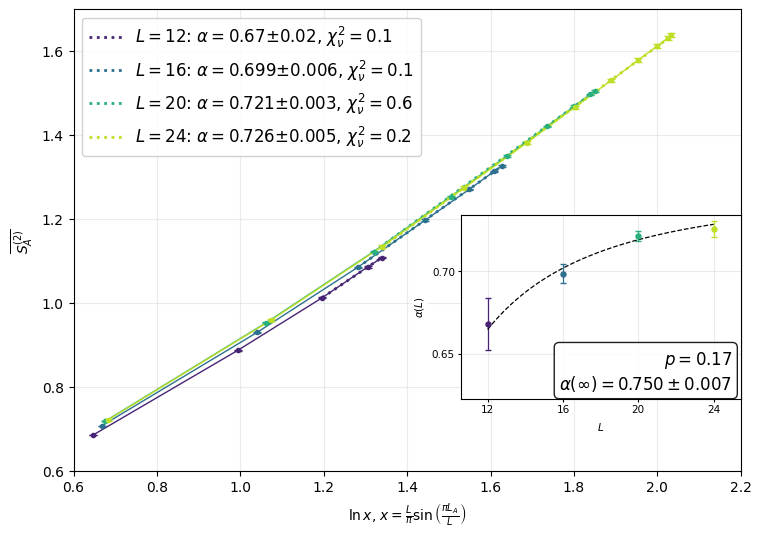
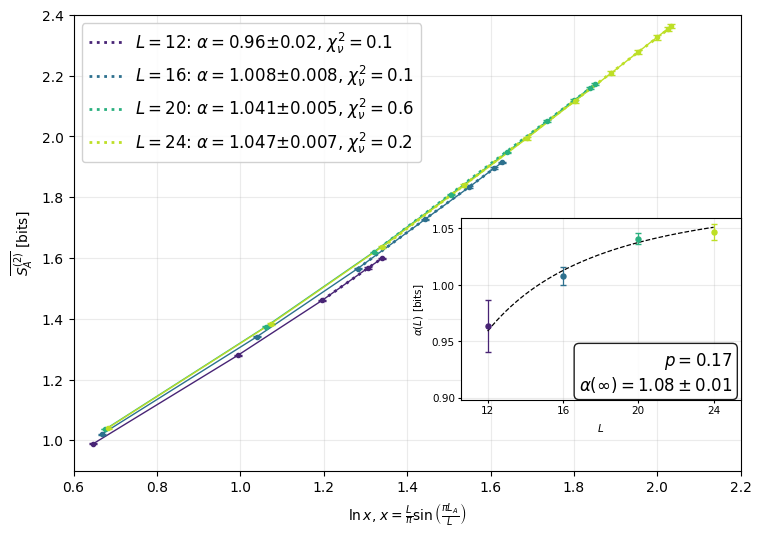
made all plots in [bits], added finite-size scaling \omega for p_c

diff --git a/python/data_analysis/probes_scans.py b/python/data_analysis/probes_scans.py
@@ -634,24 +634,56 @@ def _fit_probe_pc_metric(
     fixed_pc: float | None,
     fixed_nu: float | None,
     fixed_x: float | None,
+    correction_to_scaling: bool,
+    omega_bounds: tuple[float, float],
+    fixed_omega: float | None,
+    f1_order: int,
     interpolation_points: int,
     relative_error_floor: float,
     absolute_error_floor: float,
     seed: int,
 ) -> dict[str, Any]:
-    for name, value, bound in (
+    if correction_to_scaling:
+        if not 0.0 < omega_bounds[0] < omega_bounds[1]:
+            raise ValueError(
+                "omega_bounds must be strictly increasing and positive."
+            )
+        if len(curves) < 3:
+            raise ValueError(
+                "The correction-to-scaling fit requires at least three "
+                "system sizes."
+            )
+        if (
+            isinstance(f1_order, (bool, np.bool_))
+            or not isinstance(f1_order, (int, np.integer))
+            or f1_order < 0
+        ):
+            raise ValueError("f1_order must be a non-negative integer.")
+    elif fixed_omega is not None:
+        raise ValueError(
+            "fixed_omega requires correction_to_scaling=True."
+        )
+
+    parameter_specs = [
         ("fixed_pc", fixed_pc, pc_bounds),
         ("fixed_nu", fixed_nu, nu_bounds),
         ("fixed_x", fixed_x, x_bounds),
-    ):
+    ]
+    if correction_to_scaling:
+        parameter_specs.append(("fixed_omega", fixed_omega, omega_bounds))
+    for name, value, bound in parameter_specs:
         if value is not None and not bound[0] <= value <= bound[1]:
             raise ValueError(f"{name}={value} lies outside bounds {bound}.")
+
     names, bounds, fixed = [], [], {}
-    for name, value, bound in (
+    fit_specs = [
         ("pc", fixed_pc, pc_bounds),
         ("nu", fixed_nu, nu_bounds),
         ("x", fixed_x, x_bounds),
-    ):
+    ]
+    if correction_to_scaling:
+        fit_specs.append(("omega", fixed_omega, omega_bounds))
+    for name, value, bound in fit_specs:
         if value is None:
             names.append(name)
             bounds.append(bound)
@@ -661,9 +693,14 @@ def _fit_probe_pc_metric(
     def unpack(theta):
         values = dict(fixed)
         values.update({name: float(value) for name, value in zip(names, theta)})
-        return values["pc"], values["nu"], values["x"]
+        return (
+            values["pc"],
+            values["nu"],
+            values["x"],
+            values.get("omega"),
+        )
 
-    def transformed(curve, pc, nu, exponent):
+    def raw_transformed(curve, pc, nu, exponent):
         scale = float(curve["L"]) ** exponent
         x = (curve["p"] - pc) * float(curve["L"]) ** (1.0 / nu)
         order = np.argsort(x)
@@ -671,20 +708,106 @@ def _fit_probe_pc_metric(
             curve["dvalue"] * scale
         )[order]
 
+    def correction_model(pc, nu, exponent, omega, curve_set=curves):
+        """Profile out F1 while leaving the common F0 curve nonparametric."""
+        pair_samples = []
+        x_scale = 0.0
+        for i in range(len(curve_set)):
+            for j in range(i + 1, len(curve_set)):
+                xa, ya, dya = raw_transformed(curve_set[i], pc, nu, exponent)
+                xb, yb, dyb = raw_transformed(curve_set[j], pc, nu, exponent)
+                lo, hi = max(xa.min(), xb.min()), min(xa.max(), xb.max())
+                if hi <= lo:
+                    continue
+                grid = np.linspace(lo, hi, interpolation_points)
+                ya_grid = np.interp(grid, xa, ya)
+                yb_grid = np.interp(grid, xb, yb)
+                dya_grid = np.interp(grid, xa, dya)
+                dyb_grid = np.interp(grid, xb, dyb)
+                typical = max(
+                    np.nanmedian(np.abs(ya_grid)),
+                    np.nanmedian(np.abs(yb_grid)),
+                    absolute_error_floor,
+                )
+                floor = max(absolute_error_floor, relative_error_floor * typical)
+                sigma = np.sqrt(dya_grid**2 + dyb_grid**2 + floor**2)
+                irrelevant_difference = (
+                    float(curve_set[i]["L"]) ** (-omega)
+                    - float(curve_set[j]["L"]) ** (-omega)
+                )
+                pair_samples.append(
+                    (grid, ya_grid - yb_grid, sigma, irrelevant_difference)
+                )
+                x_scale = max(x_scale, float(np.max(np.abs(grid))))
+
+        if not pair_samples or not np.isfinite(x_scale):
+            return None
+        if x_scale == 0.0:
+            x_scale = 1.0
+        design_parts, value_parts, sigma_parts = [], [], []
+        for grid, difference, sigma, irrelevant_difference in pair_samples:
+            polynomial_x = grid / x_scale
+            design_parts.append(
+                irrelevant_difference
+                * np.vander(polynomial_x, N=f1_order + 1, increasing=True)
+            )
+            value_parts.append(difference)
+            sigma_parts.append(sigma)
+        design = np.vstack(design_parts)
+        value = np.concatenate(value_parts)
+        sigma = np.concatenate(sigma_parts)
+        if value.size <= design.shape[1]:
+            return None
+        try:
+            coefficients, _, rank, _ = np.linalg.lstsq(
+                design / sigma[:, None], value / sigma, rcond=None
+            )
+        except np.linalg.LinAlgError:
+            return None
+        if rank < design.shape[1] or not np.all(np.isfinite(coefficients)):
+            return None
+
+        offset = 0
+        pair_scores = []
+        for grid, _, pair_sigma, _ in pair_samples:
+            count = grid.size
+            pair_residual = (
+                value[offset:offset + count]
+                - design[offset:offset + count] @ coefficients
+            ) / pair_sigma
+            pair_scores.append(np.mean(pair_residual**2))
+            offset += count
+        return {
+            "score": float(np.mean(pair_scores)),
+            "x_scale": x_scale,
+            "f1_coefficients": coefficients,
+        }
+
     def objective(theta, curve_set=curves):
-        pc, nu, exponent = unpack(theta)
+        pc, nu, exponent, omega = unpack(theta)
+        omega_value = 0.0 if omega is None else omega
         if (
-            not np.isfinite(pc + nu + exponent)
+            not np.isfinite(pc + nu + exponent + omega_value)
             or not pc_bounds[0] <= pc <= pc_bounds[1]
             or not nu_bounds[0] <= nu <= nu_bounds[1]
             or not x_bounds[0] <= exponent <= x_bounds[1]
+            or (
+                correction_to_scaling
+                and not omega_bounds[0] <= omega_value <= omega_bounds[1]
+            )
         ):
             return np.inf
+        if correction_to_scaling:
+            model = correction_model(
+                pc, nu, exponent, omega_value, curve_set=curve_set
+            )
+            return np.inf if model is None else model["score"]
+
         scores = []
         for i in range(len(curve_set)):
             for j in range(i + 1, len(curve_set)):
-                xa, ya, dya = transformed(curve_set[i], pc, nu, exponent)
-                xb, yb, dyb = transformed(curve_set[j], pc, nu, exponent)
+                xa, ya, dya = raw_transformed(curve_set[i], pc, nu, exponent)
+                xb, yb, dyb = raw_transformed(curve_set[j], pc, nu, exponent)
                 lo, hi = max(xa.min(), xb.min()), min(xa.max(), xb.max())
                 if hi <= lo:
                     continue
@@ -733,20 +856,61 @@ def _fit_probe_pc_metric(
         errors_free = np.empty(0)
         covariance = hessian = np.empty((0, 0))
 
-    pc, nu, exponent = unpack(theta)
-    errors = {"pc": 0.0, "nu": 0.0, "x": 0.0}
+    pc, nu, exponent, omega = unpack(theta)
+    errors = {"pc": 0.0, "nu": 0.0, "x": 0.0, "omega": 0.0}
     for name, error in zip(names, errors_free):
         errors[name] = float(error)
+
+    fitted_correction = None
+    f1_function = None
+    if correction_to_scaling:
+        fitted_correction = correction_model(pc, nu, exponent, omega)
+        if fitted_correction is None:
+            raise RuntimeError("Unable to construct the fitted correction model.")
+
+        def f1_function(scaled_x):
+            polynomial_x = np.asarray(scaled_x, dtype=float) / fitted_correction[
+                "x_scale"
+            ]
+            return np.polynomial.polynomial.polyval(
+                polynomial_x, fitted_correction["f1_coefficients"]
+            )
+
+    def transformed(curve, pc_value, nu_value, exponent_value):
+        scaled_x, value, error = raw_transformed(
+            curve, pc_value, nu_value, exponent_value
+        )
+        if correction_to_scaling:
+            value = value - float(curve["L"]) ** (-omega) * f1_function(
+                scaled_x
+            )
+        return scaled_x, value, error
+
     return {
         "metric": metric,
         "pc": pc,
         "nu": nu,
         "x": exponent,
+        "omega": omega,
         "pc_stderr": errors["pc"],
         "nu_stderr": errors["nu"],
         "x_stderr": errors["x"],
+        "omega_stderr": errors["omega"] if correction_to_scaling else None,
         "score": score,
+        "correction_to_scaling": correction_to_scaling,
+        "f1_order": f1_order,
+        "f1_coefficients": (
+            None
+            if fitted_correction is None
+            else fitted_correction["f1_coefficients"].copy()
+        ),
+        "scaling_variable_scale": (
+            None if fitted_correction is None else fitted_correction["x_scale"]
+        ),
+        "f1_function": f1_function,
         "transform": transformed,
+        "raw_transform": raw_transformed,
+        "fit_parameter_names": tuple(names),
         "global_fit": global_fit,
         "local_fit": local_fit,
         "covariance": covariance,
@@ -767,6 +931,10 @@ def probe_pc_collapse(
     fixed_pc: float | None = None,
     fixed_nu: float | None = None,
     fixed_x: float | Mapping[str, float] | None = None,
+    correction_to_scaling: bool = False,
+    omega_bounds: tuple[float, float] = (0.1, 4.0),
+    fixed_omega: float | Mapping[str, float] | None = None,
+    f1_order: int = 2,
     sq_units: str = "bits",
     mi_units: str = "bits",
     interpolation_points: int = 250,
@@ -806,6 +974,17 @@ def probe_pc_collapse(
     the noisier three-parameter multiprobe fits. ``mi_units`` controls all
     multiprobe information metrics independently of ``sq_units``.
 
+    Set ``correction_to_scaling=True`` to fit the leading irrelevant
+    correction
+    ``L^x I(p,L)=F_0(u)+L^{-omega}F_1(u)``, where
+    ``u=(p-p_c)L^{1/nu}``. The collapse panel then subtracts the fitted
+    ``L^{-omega}F_1(u)`` term. ``omega`` is fitted within ``omega_bounds``
+    unless ``fixed_omega`` is supplied, and may be fixed separately for each
+    metric with a mapping. The existing pairwise-overlap score leaves
+    ``F_0`` nonparametric, while ``F_1`` is profiled out as a weighted
+    polynomial of order ``f1_order``. Restrict ``p_range`` to the scaling
+    window when using this polynomial ansatz.
+
     Each collapse is drawn by default as an inset in the top-right corner of
     its raw panel, with one legend per row on the raw axes. ``inset_size``
     and ``inset_pad`` are fractions of the parent axes;
@@ -813,6 +992,10 @@ def probe_pc_collapse(
     legend on both panels. ``raw_title`` overrides the per-metric title;
     ``None`` keeps ``"<metric title> — raw"``.
     """
+    if fixed_omega is not None and not correction_to_scaling:
+        raise ValueError(
+            "fixed_omega requires correction_to_scaling=True."
+        )
     # S_Q keeps its own knob because it is the order parameter and was quoted in
     # bits long before the information metrics were; both go through the one
     # unit helper so the aliases and the conversion factor agree.
@@ -852,6 +1035,11 @@ def probe_pc_collapse(
             raise ValueError(f"Duplicate system sizes found: {sizes}")
         if len(curves) < 3:
             warnings.warn("Critical collapse has fewer than three system sizes.")
+        if correction_to_scaling and len(curves) < 4:
+            warnings.warn(
+                "Correction-to-scaling fits are weakly constrained with fewer "
+                "than four system sizes."
+            )
         curves_by_metric[metric] = curves
         all_p.extend(np.concatenate([curve["p"] for curve in curves]))
 
@@ -868,6 +1056,12 @@ def probe_pc_collapse(
             metric_fixed_x = float(fixed_x)
         else:
             metric_fixed_x = 0.0 if metric == "sq" else None
+        if isinstance(fixed_omega, Mapping):
+            metric_fixed_omega = fixed_omega.get(metric)
+        elif fixed_omega is not None:
+            metric_fixed_omega = float(fixed_omega)
+        else:
+            metric_fixed_omega = None
         fits[metric] = _fit_probe_pc_metric(
             curves_by_metric[metric],
             metric,
@@ -877,16 +1071,29 @@ def probe_pc_collapse(
             fixed_pc=fixed_pc,
             fixed_nu=fixed_nu,
             fixed_x=metric_fixed_x,
+            correction_to_scaling=correction_to_scaling,
+            omega_bounds=omega_bounds,
+            fixed_omega=metric_fixed_omega,
+            f1_order=f1_order,
             interpolation_points=interpolation_points,
             relative_error_floor=relative_error_floor,
             absolute_error_floor=absolute_error_floor,
             seed=seed + index,
         )
         fit = fits[metric]
+        omega_text = (
+            ""
+            if not correction_to_scaling
+            else (
+                f", omega={fit['omega']:.6g} "
+                f"± {fit['omega_stderr']:.3g}"
+            )
+        )
         print(
             f"{metric}: p_c={fit['pc']:.6g} ± {fit['pc_stderr']:.3g}, "
             f"nu={fit['nu']:.6g} ± {fit['nu_stderr']:.3g}, "
-            f"x={fit['x']:.6g} ± {fit['x_stderr']:.3g}, "
+            f"x={fit['x']:.6g} ± {fit['x_stderr']:.3g}"
+            f"{omega_text}, "
             f"score={fit['score']:.6g}"
         )
 
@@ -967,7 +1174,10 @@ def probe_pc_collapse(
         ax_scaled.axhline(0.0, color="black", linewidth=0.7, alpha=0.3)
         ax_scaled.set_xlabel(r"$(p-p_c)L^{1/\nu}$", **inset_font)
         if not collapse_inset:
-            ax_scaled.set_ylabel(spec["scaled_ylabel"] + f" [{metric_units}]")
+            scaled_ylabel = spec["scaled_ylabel"]
+            if fit["correction_to_scaling"]:
+                scaled_ylabel += r" (leading correction subtracted)"
+            ax_scaled.set_ylabel(scaled_ylabel + f" [{metric_units}]")
             ax_scaled.legend(**legend_kwargs)
         ax_scaled.grid(alpha=0.25)
         _set_secondary_title(
@@ -981,10 +1191,17 @@ def probe_pc_collapse(
             if metric == "sq" and abs(fit["x"]) < 1e-14
             else rf"${spec['x_symbol']}={fit['x']:.4g}\pm {fit['x_stderr']:.2g}$"
         )
+        correction_text = (
+            ""
+            if not fit["correction_to_scaling"]
+            else rf"$\omega={fit['omega']:.4g}\pm "
+            rf"{fit['omega_stderr']:.2g}$" + "\n"
+        )
         _annotate_axes(
             ax_raw if collapse_inset else ax_scaled,
             rf"$p_c={fit['pc']:.5g}\pm {fit['pc_stderr']:.2g}$" + "\n"
             + rf"$\nu={fit['nu']:.4g}\pm {fit['nu_stderr']:.2g}$" + "\n"
+            + correction_text
             + rf"score $={fit['score']:.3g}$",
             annotation_loc,
             **annotation_kwargs,
@@ -1003,6 +1220,7 @@ def probe_pc_collapse(
         "collapse_inset": collapse_inset,
         "probes": probes,
         "metrics": selected_metrics,
+        "correction_to_scaling": correction_to_scaling,
         "sq_units": sq_units,
         "mi_units": mi_units,
         "fits": fits,

diff --git a/python/data_analysis/free_energy.py b/python/data_analysis/free_energy.py
@@ -352,7 +352,7 @@ def free_energy_ceff(
     information = ax.text(
         0.025,
         0.025,
-        rf"$a={alpha_in_units:.5g}$ [{alpha_units}]" + "\n" +
+        rf"$a={alpha_in_units:.5g}$" + "\n" +
         rf"$c_{{\mathrm{{eff}}}}={c_eff:.2g}\pm{c_eff_stderr:.1g}$",
         transform=ax.transAxes,
         ha="left",
